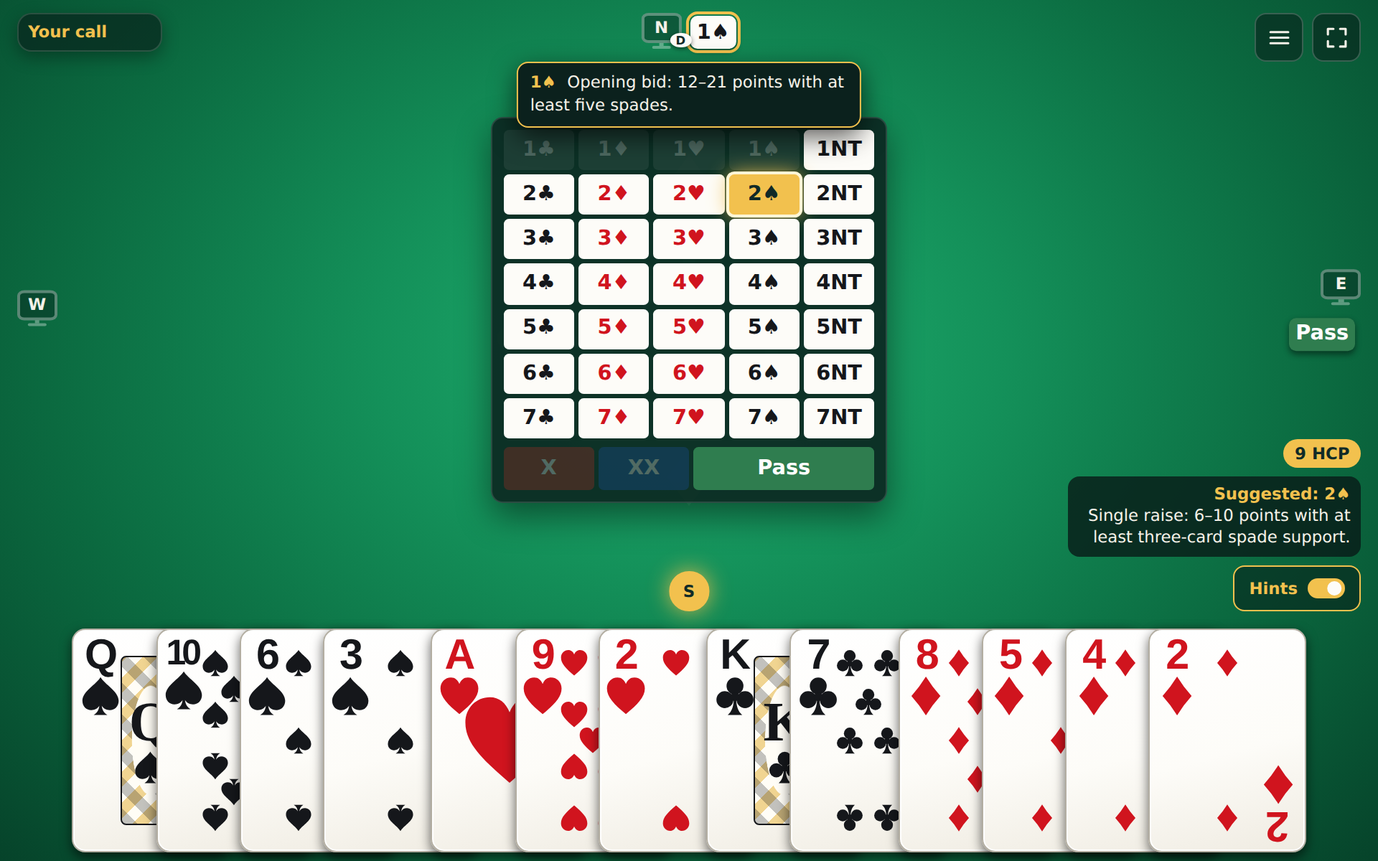
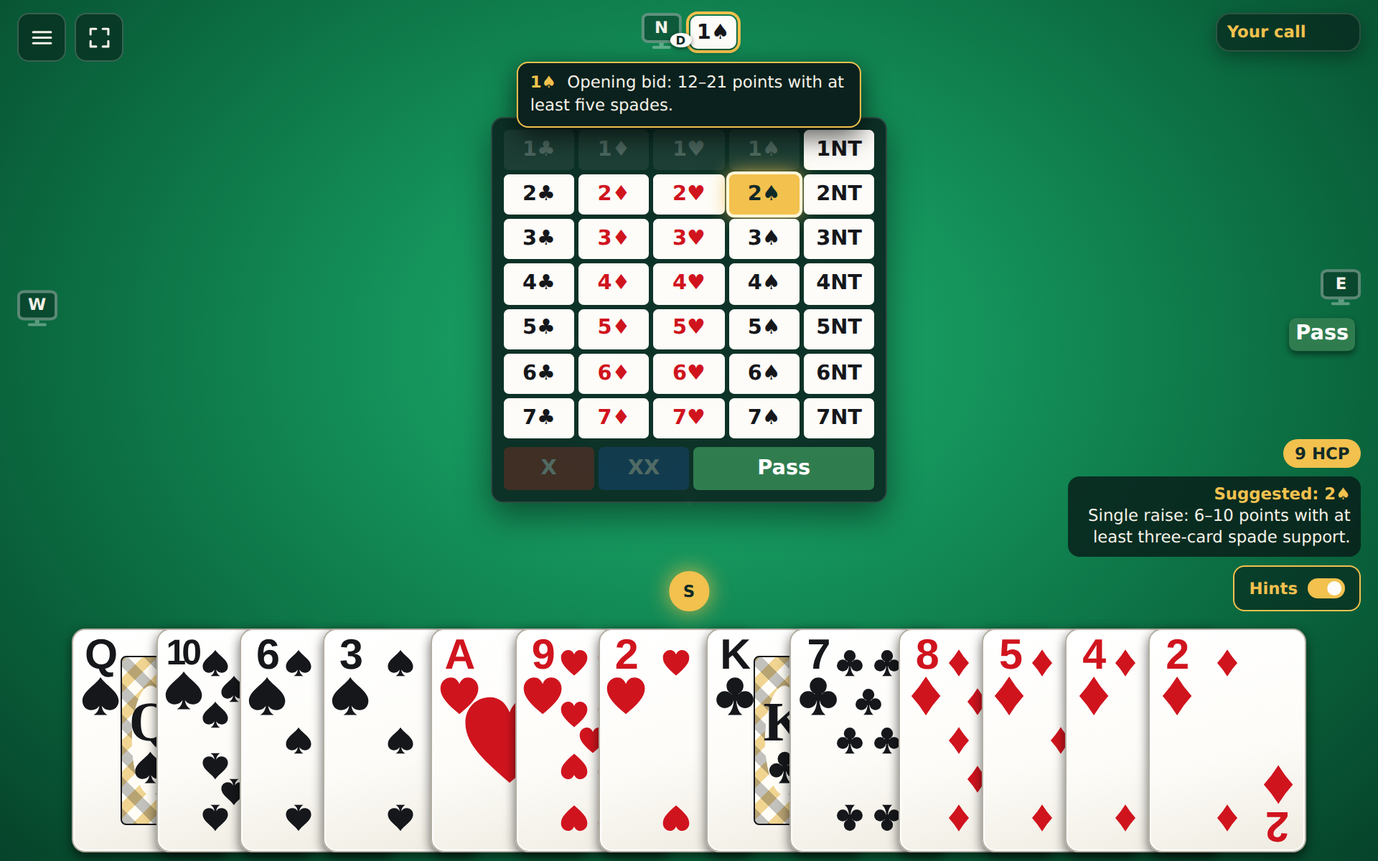
Swap the table corners and lay the last trick beside its winner
The menu and full-screen buttons move to the top left and the status card
to the top right. The Last trick badge leaves the tools corner and lies
beside the winning seat's place in the trick, hidden once every hand is
face-up.

Changed region(s): [[0.875, 0.0, 1.0, 0.0617], [0.0, 0.0, 0.125, 0.0617]]

diff --git a/apps/client/src/styles.css b/apps/client/src/styles.css
@@ -54,8 +54,8 @@ h2, h3 { font-family: Georgia, serif; font-weight: 500; }
 
 /* ---------- Corners of the table ---------- */
 .table-status, .table-tools, .history-controls, .hint-controls { position: absolute; z-index: 6; display: flex; gap: var(--u); }
-/* The status card: contract on the left; NS and EW columns with tricks won (gold) over the running score; whose turn underneath. */
-.table-status { top: calc(1.5 * var(--u)); left: calc(2 * var(--u)); display: grid; grid-template-columns: repeat(2, minmax(2.6em, auto)); grid-auto-flow: row; align-items: center; justify-items: center; column-gap: calc(.4 * var(--u)); row-gap: calc(.2 * var(--u)); border: 1px solid var(--line); border-radius: 10px; padding: calc(.9 * var(--u)) calc(1.1 * var(--u)); background: rgba(8, 28, 24, .62); box-shadow: 0 4px 12px #0005; font-variant-numeric: tabular-nums; }
+/* The status card (top right): contract on the left; NS and EW columns with tricks won (gold) over the running score; whose turn underneath. */
+.table-status { top: calc(1.5 * var(--u)); right: calc(2 * var(--u)); display: grid; grid-template-columns: repeat(2, minmax(2.6em, auto)); grid-auto-flow: row; align-items: center; justify-items: center; column-gap: calc(.4 * var(--u)); row-gap: calc(.2 * var(--u)); border: 1px solid var(--line); border-radius: 10px; padding: calc(.9 * var(--u)) calc(1.1 * var(--u)); background: rgba(8, 28, 24, .62); box-shadow: 0 4px 12px #0005; font-variant-numeric: tabular-nums; }
 .table-status.has-contract { grid-template-columns: auto repeat(2, minmax(2.6em, auto)); }
 .table-status .contract-badge { grid-column: 1; align-self: center; margin-right: calc(.8 * var(--u)); }
 .hud-row { display: contents; }
@@ -64,11 +64,12 @@ h2, h3 { font-family: Georgia, serif; font-weight: 500; }
 .hud-side { color: var(--muted); font-size: var(--text-s); font-weight: 700; letter-spacing: .08em; line-height: 1; }
 .trick-count b { color: var(--gold); font-size: var(--text-l); font-weight: 800; line-height: 1.1; }
 .match-score span { color: var(--ink); font-size: var(--text-s); font-weight: 600; opacity: .85; }
-.table-tools { top: calc(1.5 * var(--u)); right: calc(2 * var(--u)); flex-direction: column; align-items: flex-end; }
+/* The tools corner (top left): the game menu and the full-screen button. */
+.table-tools { top: calc(1.5 * var(--u)); left: calc(2 * var(--u)); flex-direction: column; align-items: flex-start; }
 .table-tools-row { display: flex; align-items: center; gap: var(--u); }
 .history-controls { bottom: var(--u); left: calc(2 * var(--u)); }
 .hint-controls { right: calc(2 * var(--u)); bottom: var(--u); flex-direction: column; align-items: flex-end; }
-.session-progress { position: absolute; z-index: 7; top: calc(2 * var(--u)); left: calc(2 * var(--u)); max-width: calc(34 * var(--u)); margin: 0; border-radius: 6px; padding: calc(.7 * var(--u)) calc(1 * var(--u)); background: rgba(8, 28, 24, .88); color: var(--ink); font-size: var(--text-s); line-height: 1.25; }
+.session-progress { position: absolute; z-index: 7; top: calc(2 * var(--u)); right: calc(2 * var(--u)); max-width: calc(34 * var(--u)); margin: 0; border-radius: 6px; padding: calc(.7 * var(--u)) calc(1 * var(--u)); background: rgba(8, 28, 24, .88); color: var(--ink); font-size: var(--text-s); line-height: 1.25; }
 .session-result-progress { margin: 0 0 calc(1.5 * var(--u)); color: var(--gold); font-size: var(--text-s); text-align: center; }
 .hint-controls p { margin: 0; max-width: max(200px, calc(34 * var(--u))); border-radius: 8px; padding: calc(.8 * var(--u)) calc(1.2 * var(--u)); background: rgba(8, 28, 24, .82); color: var(--ink); font-size: var(--text-m); line-height: 1.35; text-align: right; }
 .hint-controls p strong { display: block; color: var(--gold); font-family: var(--suit-font); font-size: var(--text-m); }
@@ -89,7 +90,15 @@ h2, h3 { font-family: Georgia, serif; font-weight: 500; }
 .board-label { grid-column: 1 / -1; justify-self: stretch; color: var(--muted); font-size: var(--text-s); text-align: left; }
 .table-status:is(.has-contract, :has(.hud-side)) .status-pill { margin-top: calc(.5 * var(--u)); border-top: 1px solid var(--line); padding-top: calc(.6 * var(--u)); }
 
-/* The last trick is a small badge with the card that won it; a click lays the whole trick out on the table, another clears it. */
+/* The last trick is a small badge with the card that won it; a click lays the whole trick out on the table, another clears it.
+   It lies beside the winner's place in the trick, as a won trick is gathered in front of its winner: beside the top or
+   bottom card on that player's left, or just outside the card at a side seat. */
+.last-trick-spot { position: absolute; z-index: 5; top: 50%; left: 50%; --w: calc(var(--h) * .7); --g: var(--u); }
+.last-trick-spot .last-trick-button { position: absolute; width: max-content; }
+.last-trick-at-top .last-trick-button { top: calc(-1 * (var(--dy) + var(--h) / 2)); left: calc(var(--w) / 2 + var(--g)); }
+.last-trick-at-bottom .last-trick-button { right: calc(var(--w) / 2 + var(--g)); bottom: calc(-1 * (var(--dy) + var(--h) / 2)); }
+.last-trick-at-left .last-trick-button { top: 0; right: calc(var(--dx) + var(--w) / 2 + var(--g)); transform: translateY(-50%); }
+.last-trick-at-right .last-trick-button { top: 0; left: calc(var(--dx) + var(--w) / 2 + var(--g)); transform: translateY(-50%); }
 .last-trick-button { display: flex; align-items: center; gap: calc(.8 * var(--u)); border: 1px solid rgba(255, 255, 255, .2); border-radius: 999px; padding: calc(.4 * var(--u)) calc(.5 * var(--u)) calc(.4 * var(--u)) calc(1.2 * var(--u)); background: rgba(8, 28, 24, .55); color: var(--ink); font-size: var(--text-s); font-weight: 700; white-space: nowrap; cursor: pointer; }
 .last-trick-button:hover:not(:disabled), .last-trick-button[aria-pressed="true"] { border-color: var(--gold); color: var(--gold); }
 .last-trick-button:disabled { opacity: .55; cursor: default; }
@@ -98,7 +107,7 @@ h2, h3 { font-family: Georgia, serif; font-weight: 500; }
 
 /* ---------- Menu ---------- */
 .table-menu { position: relative; z-index: 8; }
-.table-menu-content { position: absolute; top: calc(100% + 8px); right: 0; width: min(420px, calc(100vw - 24px)); max-height: calc(100vh - 80px); overflow: auto; border: 1px solid var(--line); border-radius: 10px; padding: 16px; background: var(--panel); box-shadow: 0 14px 36px #061815cc; }
+.table-menu-content { position: absolute; top: calc(100% + 8px); left: 0; width: min(420px, calc(100vw - 24px)); max-height: calc(100vh - 80px); overflow: auto; border: 1px solid var(--line); border-radius: 10px; padding: 16px; background: var(--panel); box-shadow: 0 14px 36px #061815cc; }
 .menu-deal { width: 100%; margin-bottom: 14px; }
 .game-menu-content { width: min(260px, calc(100vw - 24px)); display: grid; gap: 8px; padding: 12px; }
 .game-menu-content .menu-deal { margin-bottom: 0; }
@@ -220,7 +229,7 @@ button.playing-card { cursor: pointer; }
 /* With dummy across the top, the bidding drops to a second line and the trick makes room for it. */
 .pos-top.has-dummy { flex-wrap: wrap; justify-content: center; width: max-content; max-width: 100%; }
 .pos-top.has-dummy .seat-auction-calls { order: 3; flex-basis: 100%; justify-content: center; }
-.calls-shown .pos-top.has-dummy:not(.has-fixed-hand) ~ .trick-area { transform: translateY(calc(3.5 * var(--u))); }
+.calls-shown .pos-top.has-dummy:not(.has-fixed-hand) ~ :is(.trick-area, .last-trick-spot) { transform: translateY(calc(3.5 * var(--u))); }
 .seat-compass { position: relative; display: grid; flex: none; width: max(26px, calc(4.6 * var(--u))); height: max(26px, calc(4.6 * var(--u))); place-items: center; border: max(2px, calc(.35 * var(--u))) solid rgba(255, 255, 255, .34); border-radius: 50%; background: rgba(8, 28, 24, .4); color: var(--ink); font-size: var(--text-m); font-weight: 800; }
 .vulnerable-seat .seat-compass { border-color: #ee4a3f; }
 .played-seat .seat-compass { background: rgba(255, 255, 255, .2); }
@@ -322,7 +331,8 @@ button.dummy-card { cursor: pointer; transition: transform .12s ease; }
 .pos-left .hidden-hand { align-self: flex-start; }
 
 /* ---------- Centre of the table ---------- */
-.trick-area { position: absolute; z-index: 2; inset: 0; pointer-events: none; --h: calc(19 * var(--u)); --dx: calc(11 * var(--u)); --dy: calc(8 * var(--u)); }
+.trick-area, .last-trick-spot { --h: calc(19 * var(--u)); --dx: calc(11 * var(--u)); --dy: calc(8 * var(--u)); }
+.trick-area { position: absolute; z-index: 2; inset: 0; pointer-events: none; }
 .trick-card { position: absolute; top: 50%; left: 50%; }
 .trick-pos-top { transform: translate(-50%, calc(-50% - var(--dy))); }
 .trick-pos-bottom { transform: translate(-50%, calc(-50% + var(--dy))); }
@@ -511,11 +521,11 @@ button.dummy-card { cursor: pointer; transition: transform .12s ease; }
    stepped to fill that box (a hand of four suits is 4 card widths, 3 gaps, and 9 steps: 42u plus 9 steps):
    - the hints corner (bottom right, or bottom left when dummy is on the right) takes --hint-room beside the bottom hand;
    - a dummy at a side seat is a column of 8.2u cards stepped 2.7u, as wide as its longest suit (--dummy-span);
-   - the status corner is capped at 20u wide (longer status text wraps), so a hand along the top starts at 24u;
-   - the tools corner stacks its buttons and the last-trick badge in one column, --tools-room wide. */
+   - the tools corner (top left) stacks its buttons in one column, --tools-room wide;
+   - the status corner (top right) is capped at 25u wide (longer status text wraps), so a hand along the top ends 28u in. */
 .online-table .table-surface {
   --hint-room: max(120px, calc(17 * var(--u)));
-  --tools-room: max(130px, calc(19 * var(--u)));
+  --tools-room: calc(max(34px, calc(5.4 * var(--u))) + 4 * var(--u));
   --side-dummy: calc((2 + 8.2 * .7 + 1.5) * var(--u) + (var(--dummy-span, 1) - 1) * 2.7 * var(--u));
   --bottom-left: var(--hint-room); --bottom-right: var(--hint-room);
 }
@@ -525,8 +535,8 @@ button.dummy-card { cursor: pointer; transition: transform .12s ease; }
 .online-table .pos-bottom .dummy-table-hand { --step: max(calc(2.6 * var(--u)), calc((100vw - var(--bottom-left) - var(--bottom-right) - 42 * var(--u)) / 9)); }
 .online-table.play-layout .hint-controls p { max-width: calc(var(--hint-room) - 2 * var(--u)); }
 .online-table .table-status { max-width: calc(25 * var(--u)); }
-.online-table .table-tools-row { flex-direction: column; align-items: flex-end; }
-.online-table .hand-on-top .pos-top.has-fixed-hand { right: var(--tools-room); left: calc(28 * var(--u)); width: auto; transform: none; }
+.online-table .table-tools-row { flex-direction: column; align-items: flex-start; }
+.online-table .hand-on-top .pos-top.has-fixed-hand { right: calc(28 * var(--u)); left: var(--tools-room); width: auto; transform: none; }
 .online-table .hand-on-top .pos-top .dummy-table-hand { --step: max(calc(2.6 * var(--u)), calc((100vw - var(--tools-room) - 70 * var(--u)) / 9)); }
 .online-table .table-surface.dummy-on-right .hint-controls { right: auto; left: calc(2 * var(--u)); align-items: flex-start; }
 .online-table .table-surface.dummy-on-right .hint-controls p { text-align: left; }
@@ -549,8 +559,8 @@ button.dummy-card { cursor: pointer; transition: transform .12s ease; }
 .lobby-panel .online-totals { justify-self: start; margin: 0; }
 .lobby-panel > .scorecard { justify-self: center; }
 .online-status { position: absolute; z-index: 8; top: max(56px, calc(10 * var(--u))); left: 50%; display: flex; align-items: center; gap: 12px; max-width: calc(100% - 24px); margin: 0; border-radius: 8px; padding: 8px 14px; background: rgba(8, 28, 24, .92); color: var(--gold); font-size: var(--text-m); font-weight: 700; box-shadow: 0 6px 18px #0008; transform: translateX(-50%); }
-/* The Auto play / bot-playing banner floats in the top-right corner under the menu and last trick, clear of every hand; the player can drag it anywhere on the table. */
-.online-resume { position: absolute; z-index: 7; top: calc(14 * var(--u)); right: calc(2 * var(--u)); display: flex; align-items: center; gap: 8px; width: max-content; max-width: max(300px, calc(44 * var(--u))); border: 1px solid var(--line); border-radius: 10px; padding: 6px 8px 6px 4px; background: rgba(12, 40, 34, .94); box-shadow: 0 6px 18px #0008; font-size: var(--text-s); line-height: 1.3; cursor: grab; touch-action: none; user-select: none; }
+/* The Auto play / bot-playing banner floats in the top-left corner under the menu, clear of every hand; the player can drag it anywhere on the table. */
+.online-resume { position: absolute; z-index: 7; top: calc(14 * var(--u)); left: calc(2 * var(--u)); display: flex; align-items: center; gap: 8px; width: max-content; max-width: max(300px, calc(44 * var(--u))); border: 1px solid var(--line); border-radius: 10px; padding: 6px 8px 6px 4px; background: rgba(12, 40, 34, .94); box-shadow: 0 6px 18px #0008; font-size: var(--text-s); line-height: 1.3; cursor: grab; touch-action: none; user-select: none; }
 .online-resume:active { cursor: grabbing; }
 .online-resume > span { flex: 1 1 auto; min-width: 12ch; }
 .online-resume .primary-button { flex: none; min-height: max(30px, calc(4.2 * var(--u))); padding: 0 12px; font-size: var(--text-s); }

diff --git a/apps/client/src/table/TableView.tsx b/apps/client/src/table/TableView.tsx
@@ -51,7 +51,7 @@ export type TableViewProps = {
   /** Keep every call in the bid picker disabled, for example while a sent call awaits the service. */
   bidsDisabled?: boolean;
   statusText: string; ariaLabel: string;
-  /** Where an imported board set stands, such as "Board 7 · 1 of 3", shown under the status in the top-left card. */
+  /** Where an imported board set stands, such as "Board 7 · 1 of 3", shown under the status in the top-right card. */
   boardLabel?: string | undefined;
   /** Seats played by a bot: their seat badge is drawn as a computer instead of a circle. */
   botSeats?: readonly Seat[] | undefined;
@@ -59,11 +59,11 @@ export type TableViewProps = {
   onBid?(bid: Bid): void; onPlay?(seat: Seat, card: Card): void;
   hintedBid?: Bid | undefined; hintedCards?: ReadonlySet<string> | undefined;
   explainCall?: { shown?: number | undefined; onToggle(index: number): void; text(index: number): string } | undefined;
-  /** Running match score, shown under the trick count in the top-left status card. */
+  /** Running match score, shown under the trick count in the top-right status card. */
   matchScore?: { ns: number; ew: number } | undefined;
   /** Once the hand is over: the whole deal, laid face-up at each seat with its high-card points. Nothing is playable. */
   revealedHands?: Readonly<Record<Seat, readonly Card[]>> | undefined;
-  tools?: React.ReactNode;               // menu + fullscreen (top-right)
+  tools?: React.ReactNode;               // menu + fullscreen (top-left)
   overlay?: React.ReactNode;             // score panel, review/history controls, hint controls, messages
 };
 
@@ -98,7 +98,7 @@ export function TableView({
   const fixedPlayHands = fixedSeatHands && liveTurnPhase(phase);
   // A dummy at a side seat is a column as wide as its longest suit; the bottom hand is laid out beside it.
   const sideDummy = fixedPlayHands && dummyVisible && dummySeat && (dummyPosition === "left" || dummyPosition === "right") ? dummyPosition : undefined;
-  // A hand spread along the top shares its height with the status corner, so it starts to the right of it.
+  // A hand spread along the top shares its height with the corners, so it fits between the tools and the status card.
   const handOnTop = fixedPlayHands && game.hands[seats[(seats.indexOf(bottomSeat) + 2) % 4]!].length > 0;
   const sideDummySpan = sideDummy && dummySeat ? Math.max(1, ...SUITS.map((suit) => game.hands[dummySeat].filter((card) => card.suit === suit).length)) : undefined;
   const completedNsTricks = contract
@@ -148,10 +148,6 @@ export function TableView({
 
         <div className="table-tools">
           <div className="table-tools-row">{tools}</div>
-          {lastTrick && lastTrickWinner ? <button className="last-trick-button" type="button" disabled={game.currentTrick.length > 0} aria-pressed={lastTrickOpen} aria-label={lastTrickOpen ? "Hide last trick" : "Last trick"} title={game.currentTrick.length > 0 ? "The last trick can be shown once this trick is complete" : lastTrickOpen ? "Hide last trick" : "Show the last trick on the table"} onClick={onToggleLastTrick}>
-            <span className="last-trick-label" aria-hidden="true">Last trick</span>
-            {lastTrick.filter(({ seat }) => seat === lastTrickWinner).map(({ seat, card }) => <span className={`last-trick-chip ${isRedSuit(card.suit) ? "red-card" : ""}`} key={seat} aria-hidden="true">{card.rank === "T" ? "10" : card.rank}{suitSymbols[card.suit]}</span>)}
-          </button> : null}
         </div>
 
         {seats.map((seat) => {
@@ -202,6 +198,13 @@ export function TableView({
         <div className="trick-area" role="region" aria-label="Current trick">
           {displayedTrick.map(({ seat, card }) => tableCard(card, `trick-card trick-card-position-${seat} trick-pos-${positionOf(seat)}`, `${seatNames[seat]} played ${cardLabel(card)}`))}
         </div>
+
+        {/* The last trick lies beside the card of the seat that won it, as a won trick is gathered in front of its winner; once
+            every hand is face-up at the end of the deal there is no trick to look back on. */}
+        {lastTrick && lastTrickWinner && !revealed ? <div className={`last-trick-spot last-trick-at-${positionOf(lastTrickWinner)}`}><button className="last-trick-button" type="button" disabled={game.currentTrick.length > 0} aria-pressed={lastTrickOpen} aria-label={lastTrickOpen ? "Hide last trick" : "Last trick"} title={game.currentTrick.length > 0 ? "The last trick can be shown once this trick is complete" : lastTrickOpen ? "Hide last trick" : "Show the last trick on the table"} onClick={onToggleLastTrick}>
+          <span className="last-trick-label" aria-hidden="true">Last trick</span>
+          {lastTrick.filter(({ seat }) => seat === lastTrickWinner).map(({ seat, card }) => <span className={`last-trick-chip ${isRedSuit(card.suit) ? "red-card" : ""}`} key={seat} aria-hidden="true">{card.rank === "T" ? "10" : card.rank}{suitSymbols[card.suit]}</span>)}
+        </button></div> : null}
 
         <section className={phase === "auction" ? "auction-panel centered-auction" : "sr-only"} aria-label="Auction">
           {auctionList}

diff --git a/apps/client/src/table/DraggableBanner.tsx b/apps/client/src/table/DraggableBanner.tsx
@@ -22,7 +22,7 @@ function browserStorage(): Storage | undefined {
 }
 
 /**
- * A banner that floats over the table without covering the cards: it starts in the top-left corner under the status card,
+ * A banner that floats over the table without covering the cards: it starts in the top-left corner under the menu,
  * and the player can drag it (or move it from its grip with the arrow keys) anywhere on the table. Home, or a double-click
  * on the grip, puts it back. The spot is remembered on this device.
  */
@@ -45,22 +45,21 @@ export function DraggableBanner({ label, storageKey, className = "", children }:
       const space = room();
       if (!space) return setPlace(undefined);
       if (spot) return setPlace({ left: spot.x * space.width, top: spot.y * space.height });
-      // Default: the top-right corner, just under the menu and the last trick, where no seat or hand sits (on the left the
-      // side seat's badge and dummy start just under the status card). Tall, narrow windows have no room there (the top
-      // hand reaches the corner), so the banner sits on the open felt just above the player's seat.
+      // Default: the top-left corner, just under the menu and full-screen buttons, where no seat or hand sits (a side
+      // seat's dummy starts lower down). Tall, narrow windows have no room there (the top hand reaches the corner), so
+      // the banner sits on the open felt just above the player's seat.
       const tools = space.surface.querySelector<HTMLElement>(".table-tools");
-      const status = space.surface.querySelector<HTMLElement>(".table-status");
       const bottomSeat = space.surface.querySelector<HTMLElement>(".pos-bottom");
       if (bottomSeat && space.surface.clientHeight > space.surface.clientWidth * 1.25) {
-        setPlace({ left: status?.offsetLeft ?? 0, top: Math.max(0, Math.min(space.height, bottomSeat.offsetTop - space.element.offsetHeight - 12)) });
+        setPlace({ left: tools?.offsetLeft ?? 0, top: Math.max(0, Math.min(space.height, bottomSeat.offsetTop - space.element.offsetHeight - 12)) });
       } else if (tools) {
-        setPlace({ left: Math.max(0, Math.min(space.width, tools.offsetLeft + tools.offsetWidth - space.element.offsetWidth)), top: Math.min(space.height, tools.offsetTop + tools.offsetHeight + 8) });
+        setPlace({ left: Math.max(0, Math.min(space.width, tools.offsetLeft)), top: Math.min(space.height, tools.offsetTop + tools.offsetHeight + 8) });
       } else setPlace(undefined);
     };
     layout();
     window.addEventListener("resize", layout);
-    // The corner moves when the last trick appears under the menu, or the status card changes size.
-    const watched = [...(ref.current?.offsetParent?.querySelectorAll(".table-tools, .table-status") ?? [])];
+    // The corner moves when the tools change size.
+    const watched = [...(ref.current?.offsetParent?.querySelectorAll(".table-tools") ?? [])];
     const observer = typeof ResizeObserver === "function" && watched.length ? new ResizeObserver(layout) : undefined;
     for (const element of watched) observer?.observe(element);
     return () => { window.removeEventListener("resize", layout); observer?.disconnect(); };

diff --git a/apps/client/src/App.test.tsx b/apps/client/src/App.test.tsx
@@ -287,6 +287,10 @@ describe("bridge table", () => {
 
     expect(lastTrick.querySelectorAll(".table-card")).toHaveLength(0);
     expect(lastTrick.querySelector(".last-trick-chip")!.textContent).toBe(`${card.rank === "T" ? "10" : card.rank}${suitSymbols[card.suit]}`);
+    // It lies on the winner's side of the trick, not in a corner with the menu.
+    const winnerPosition = [...document.querySelector(`.seat-${winner}`)!.classList].find((name) => name.startsWith("pos-"))!.slice(4);
+    expect(lastTrick.parentElement!.classList.contains(`last-trick-at-${winnerPosition}`)).toBe(true);
+    expect(lastTrick.closest(".table-tools")).toBeNull();
   });
 
   it("pauses bot play for the full completed-trick display", async () => {

diff --git a/apps/client/src/online/OnlineTable.test.tsx b/apps/client/src/online/OnlineTable.test.tsx
@@ -194,7 +194,7 @@ describe("OnlineTable seating", () => {
     expect(screen.getByText("NS 420 · EW 50")).toBeTruthy();
   });
 
-  it("groups the running score with the contract and trick count in the top-left status corner during a hand", () => {
+  it("groups the running score with the contract and trick count in the top-right status corner during a hand", () => {
     const service = setup();
     service.push(tableView({ yourSeat: "north", seats: seatedNorth, handNumber: 1, handInProgress: true, totals: { ns: 420, ew: 50 }, game: publicGame(oneNoTrump(), ["north", "south"]) }));
     const score = screen.getByRole("group", { name: "Score NS 420 · EW 50" });

diff --git a/README.md b/README.md
@@ -40,7 +40,7 @@
 
 <p align="center">
   <img src="docs/screenshots/bidding.png" alt="Bidding against bots: partner's 1♠ beside their seat, East's pass, and the bidding box in the middle of the table" width="49%" />
-  <img src="docs/screenshots/play.png" alt="Card play: the contract and trick count in the status card, dummy across the table, the current trick, and the last trick" width="49%" />
+  <img src="docs/screenshots/play.png" alt="Card play: the contract and trick count in the status card, dummy across the table, the current trick, and the last trick beside the winner's place" width="49%" />
 </p>
 <p align="center">
   <img src="docs/screenshots/hints.png" alt="Hints switched on: high-card points, the suggested bid highlighted with its reason, and partner's opening bid explained" width="49%" />
@@ -56,7 +56,7 @@ Deal replays: every second new hand (the 2nd, 4th, 6th and so on) may be an arch
 
 Email magic-link sign-in, account seat recovery, and account-owned hand history (online hands and dealt solo hands) are implemented and tested. Live magic-link delivery has been verified. The online deployment opens on the account-gated lobby, whose **Play** panel starts a game against bots on this device (**Me and bots**) or an online table (**With other people**). Cross-device seat recovery and archive sync still need live verification. See the [deployment runbook](docs/platform-delivery.md#email-sign-in-prerequisites). `/admin` is still open without sign-in; authorization and invitations remain planned.
 
-ContractPlay currently provides a responsive browser table for local deals, configurable bots, PBN import/export, autosaved play, take-back, named hand history and review, hints, and online tables. Solo and online tables share one game menu (☰, top right): Claim, **Take back** (your last call or card), and **Auto play this hand**, which lets a bot make your calls and play your cards until the deal ends (in the auction or the play), then gives them back. Its banner sits clear of every hand (top-right, under the menu and last trick), can be dragged anywhere on the table, and has **Stop auto play**. Rubber tables, solo and online, add **Scores**, which opens the rubber scorecard at any time; solo play also adds Settings, Recent hands (review, export, and PBN import), About, and Deal a new hand to the same menu, and online tables add **Recent hands** too; there is no Redo. Each saved hand is named after the cards you were dealt: each suit's letter followed by its cards from the ace down (T for ten), suits in the order spades, hearts, clubs, diamonds, joined by underscores, for example `SKT9_HKQJ32_CA2_D543`; a void is its letter alone (`H`). Against bots and online it is your seat's hand, otherwise South's, and a repeat of a hand already in the list gets `_2`, `_3`, and so on. Hands saved earlier keep their old names. A card that is your only legal play (a singleton in the led suit, or your last card) is played for you after a short pause; turn this off with "Play forced cards automatically" in the deal settings. You can claim the remaining tricks on your turn, either all of them or a number: against robots they check the claim with an exact search, online every human opponent must accept it, and a claimed hand is saved, reviewed, and exported to PBN with its result. While another player is to act you can click one of your cards (or dummy's, if you control it) to queue it; it plays half a second after your turn starts if still legal, and clicking it again unqueues it. Seats whose cards you cannot see show one card back per card held, during card play. With the Hints switch on, the table shows your high-card points, the suggested call or card with a reason, and the meaning of any call you click.
+ContractPlay currently provides a responsive browser table for local deals, configurable bots, PBN import/export, autosaved play, take-back, named hand history and review, hints, and online tables. Solo and online tables share one game menu (☰, top left, beside the full-screen button; the status card with the contract and tricks is top right): Claim, **Take back** (your last call or card), and **Auto play this hand**, which lets a bot make your calls and play your cards until the deal ends (in the auction or the play), then gives them back. Its banner sits clear of every hand (top left, under the menu), can be dragged anywhere on the table, and has **Stop auto play**. Rubber tables, solo and online, add **Scores**, which opens the rubber scorecard at any time; solo play also adds Settings, Recent hands (review, export, and PBN import), About, and Deal a new hand to the same menu, and online tables add **Recent hands** too; there is no Redo. Each saved hand is named after the cards you were dealt: each suit's letter followed by its cards from the ace down (T for ten), suits in the order spades, hearts, clubs, diamonds, joined by underscores, for example `SKT9_HKQJ32_CA2_D543`; a void is its letter alone (`H`). Against bots and online it is your seat's hand, otherwise South's, and a repeat of a hand already in the list gets `_2`, `_3`, and so on. Hands saved earlier keep their old names. A card that is your only legal play (a singleton in the led suit, or your last card) is played for you after a short pause; turn this off with "Play forced cards automatically" in the deal settings. You can claim the remaining tricks on your turn, either all of them or a number: against robots they check the claim with an exact search, online every human opponent must accept it, and a claimed hand is saved, reviewed, and exported to PBN with its result. While another player is to act you can click one of your cards (or dummy's, if you control it) to queue it; it plays half a second after your turn starts if still legal, and clicking it again unqueues it. Seats whose cards you cannot see show one card back per card held, during card play. The **Last trick** badge, with the card that won it, lies on the table beside the winner's place in the trick, the way a won trick is gathered in front of its winner; click it to lay the whole trick out again. With the Hints switch on, the table shows your high-card points, the suggested call or card with a reason, and the meaning of any call you click.
 
 Windows and macOS desktop builds are on hold and will probably be deprecated in favour of the web app: their installer workflows still exist, but they are no longer a target and get no new work. iOS and iPadOS are paused too: the Tauri host still supports them, but CI no longer builds them (see the [platform delivery guide](docs/platform-delivery.md) to resume). The web app and online tables are deployed together to Cloudflare at https://contractplay.niuk.workers.dev. The old GitHub Pages copy has no online entry and is no longer updated. Signed and physical-device builds remain pending their documented setup steps, and `bridge.romaniuk.us` is not set up. Voice and video chat remain planned. See the [platform delivery guide](docs/platform-delivery.md), [roadmap](TODO.md), and [change history](CHANGES.md).
 
@@ -146,7 +146,7 @@ In short: a **board set** compares your practice result with a field already rec
 Play boards that were really played at a club or tournament, then see how your result compares with the other tables (the *field*).
 
 - **Import.** In solo play, open **Import a PBN deal** (on the start screen, or ☰ → **Recent hands**) and choose a `.pbn` file. A file with several boards, or with a `ScoreTable` (the field's results), opens as a *board set*; a single board without results imports as one deal, as before. Boards that cannot be read are skipped with a message saying how many. The import panel also offers an eight-board CC0 practice set from Bridge Training; download it and choose the file to play it.
-- **Play.** Each board is dealt fresh, with its dealer and vulnerability; the top-left status card shows where you are, for example "Board 7 · 1 of 24". **Next board**, **Finish board set**, and **Leave the board set** are in the game menu. Board-set hands stay out of the rubber.
+- **Play.** Each board is dealt fresh, with its dealer and vulnerability; the top-right status card shows where you are, for example "Board 7 · 1 of 24". **Next board**, **Finish board set**, and **Leave the board set** are in the game menu. Board-set hands stay out of the rubber.
 - **Compare.** When a board ends, **Against the field** scores your result by the file's `Scoring` tag (matchpoints by default, Butler IMPs for `IMP` or `Butler`, cross-IMPs for `Cross`) and shows the field's results with your row highlighted. It shows the archive's `OptimumScore` when provided, otherwise it computes double-dummy par in a background Web Worker. A board without field results shows your own score and par.
 - **Original play.** If the file records the auction and play, **View original play** steps through them with Previous and Next; **Back to your result** returns to the comparison.
 - **Privacy.** Files stay in this browser. Player names in a `ScoreTable` are never stored or shown; only the deals, contracts, and scores are kept.

diff --git a/CHANGES.md b/CHANGES.md
@@ -2,6 +2,7 @@
 
 ## Unreleased
 
+- **Table corners swapped, and the last trick lies by its winner.** The game menu (☰) and full-screen button now sit in the top-left corner and the status card (contract, tricks, score, whose turn) in the top-right, at solo and online tables; the menu opens downward from the left, and the Auto play banner starts under the menu. The **Last trick** badge no longer sits under the menu: it lies on the table beside the place of the player who won the trick, as a won trick is gathered in front of its winner (beside the top or bottom card, or just outside a side seat's card), and it is hidden once the deal is over and every hand is face-up. At online tables a hand spread along the top now fits between the two corners. README screenshots refreshed.
 - **Full screen at online tables and in older iPad Safari.** Online tables now have the full-screen button (four corners) beside the game menu, as solo tables already did, and the F key toggles it there too. Full screen also works in Safari versions that only offer the webkit-prefixed API (before iPadOS 16.4). iPhone Safari still has no full screen for web pages.
 - **Your playing hand stays at the bottom when your bot partner declares.** When your bot partner wins the contract and you play its cards, the table now turns once dummy is down: the declaring hand you play sits at the bottom of the screen and your own hand lies across the table as dummy, just as when you declare yourself. Until the opening lead your own hand stays at the bottom. This applies in solo play against bots and at online tables with a bot partner. New preview 20 (Solo: dummy playing for a bot declarer) shows it; later solo, replay, and sign-in previews move up one.
 - **Easier UI previews.** In `#/mocks`, Space steps to the next screen and Shift+Space back, alongside the arrow keys. A picker in the preview bar groups the 34 screens (lobby, seating and sign-in; bidding; card play; menus, claims and auto play; results and scoring; reviewing hands) and jumps straight to one; screen numbers are unchanged. The bar keeps a fixed width, so the ‹ and › buttons no longer move as titles change.
